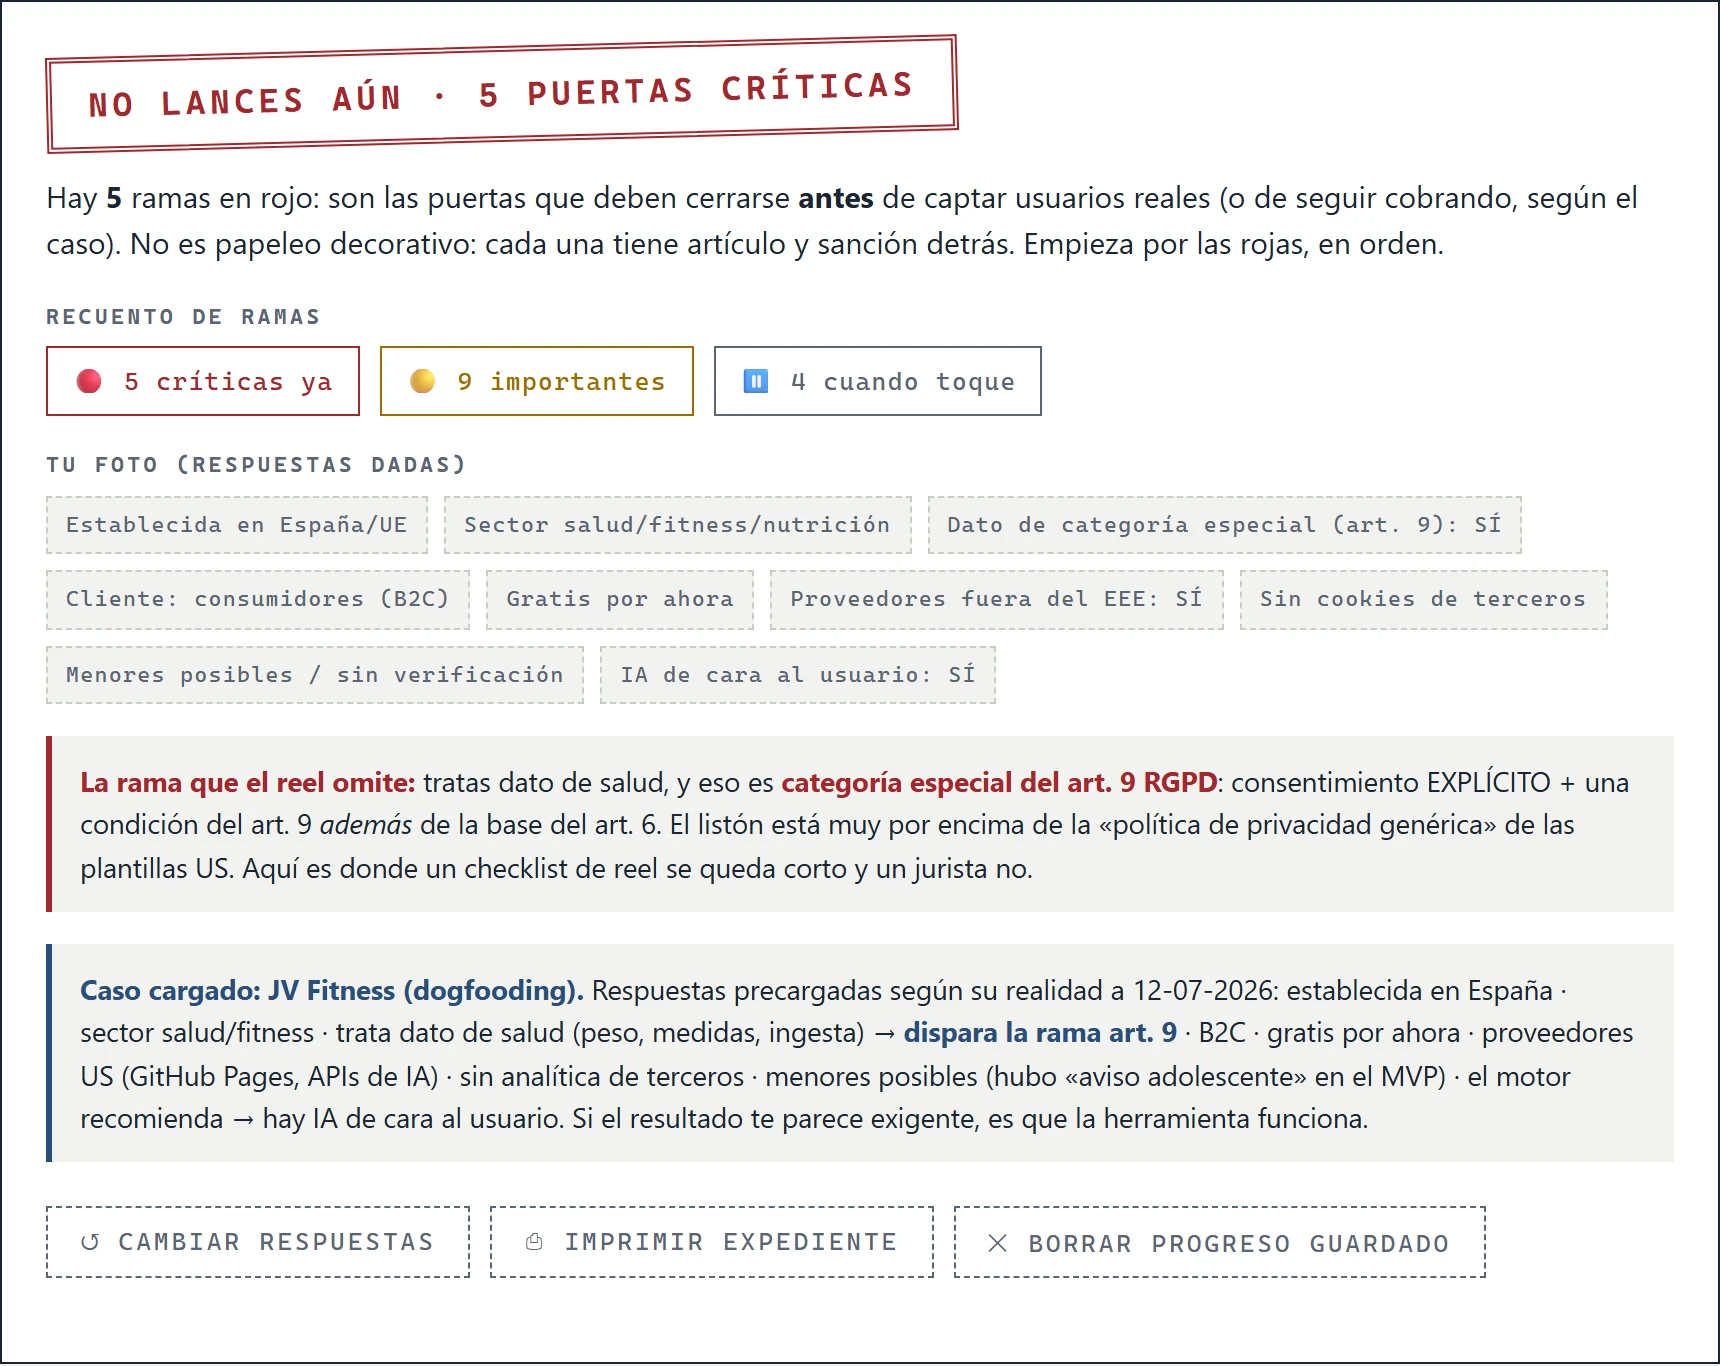
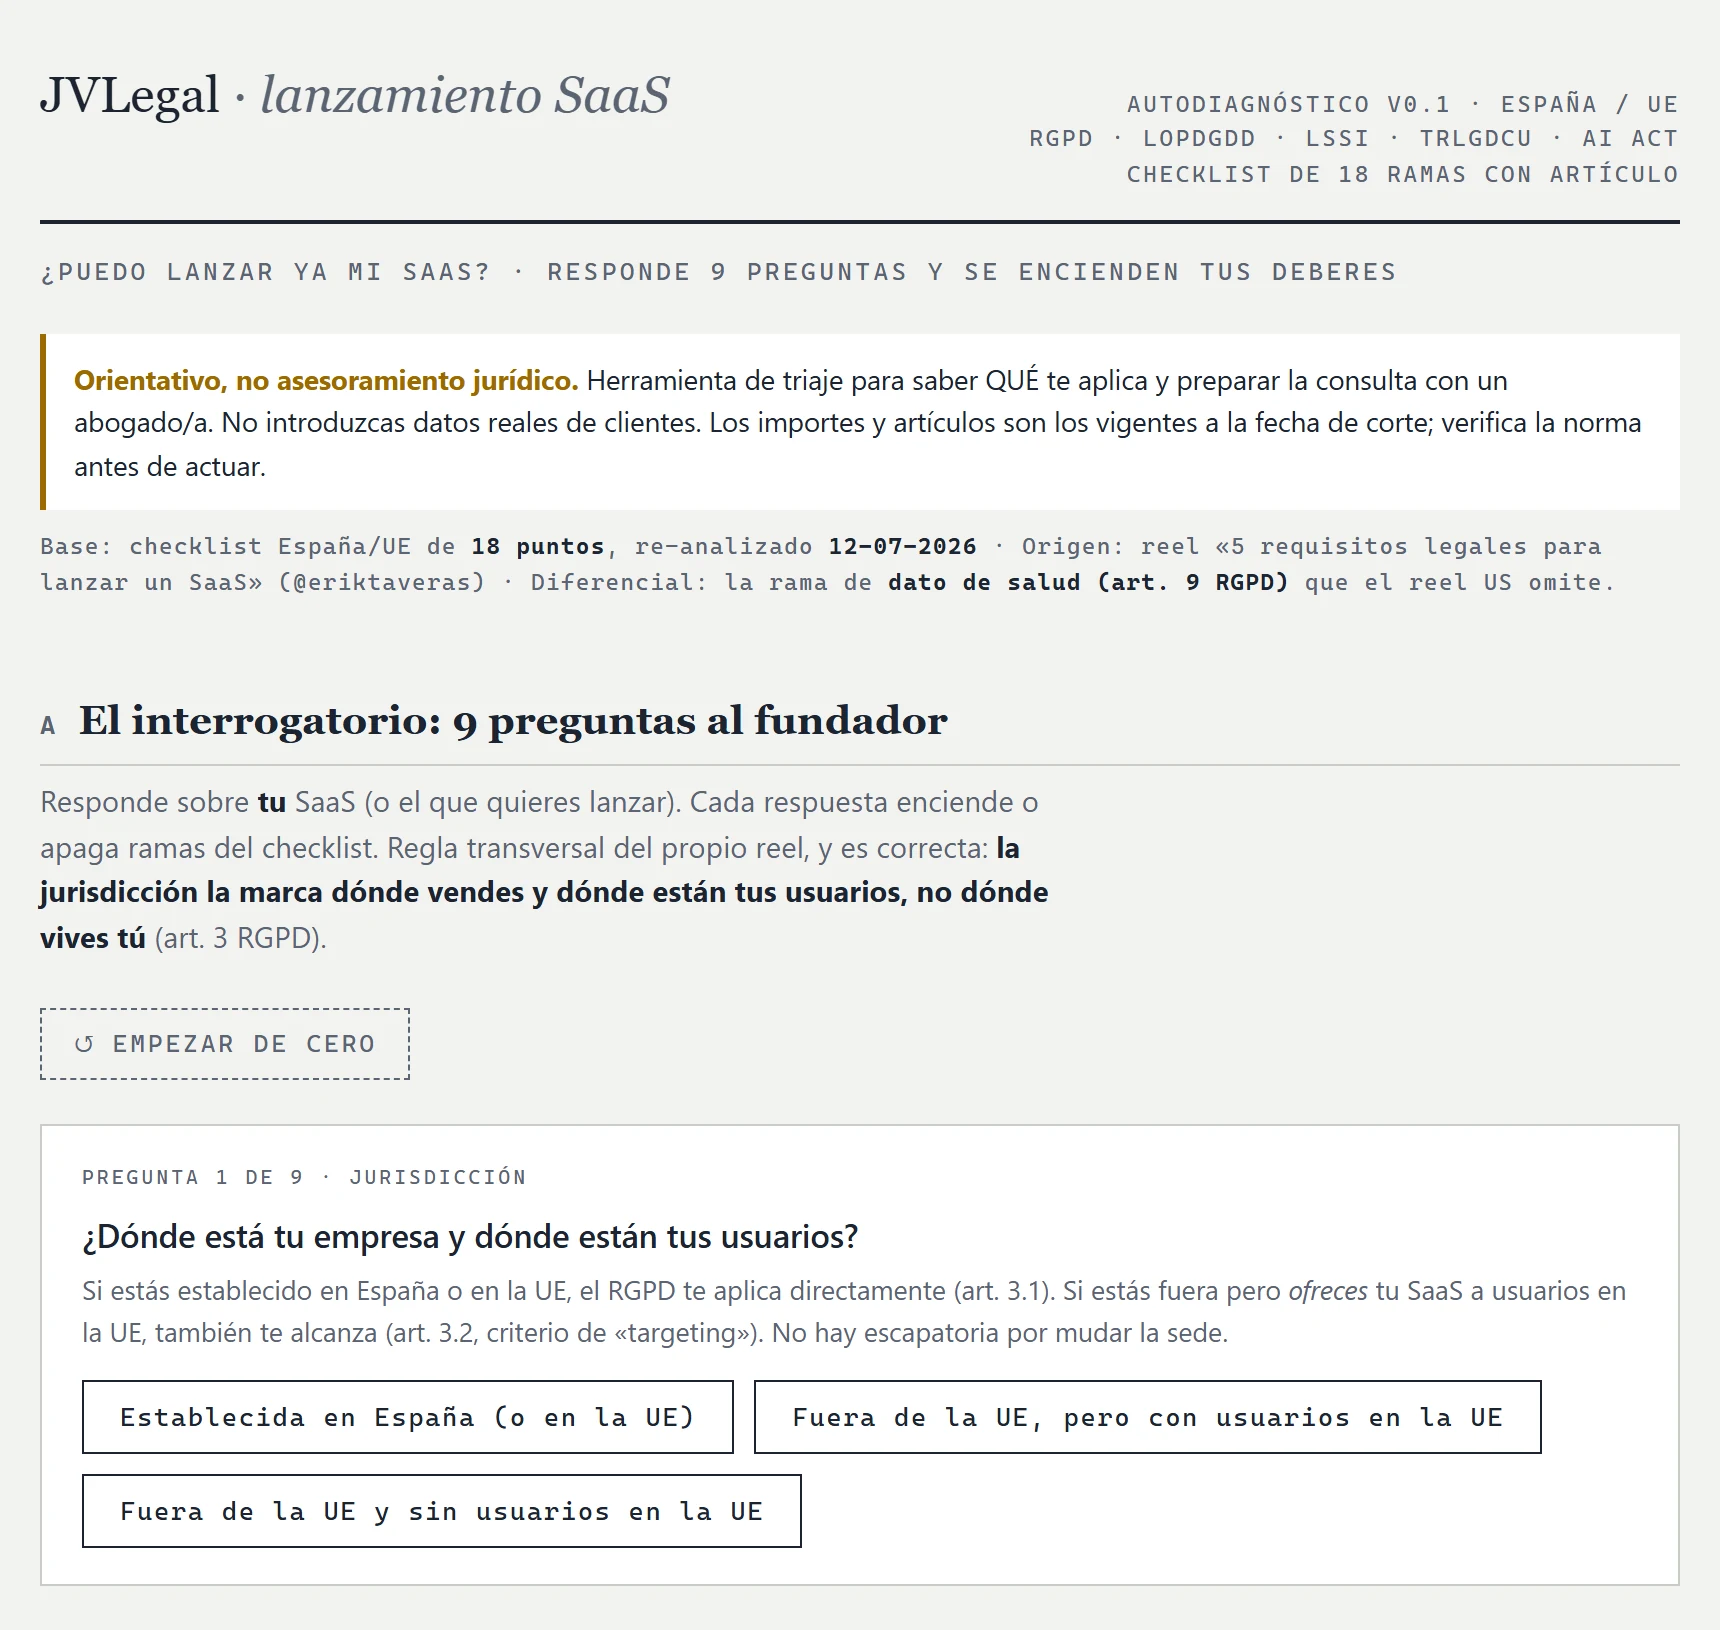
fix(privacy): drop the preloaded JV Fitness case from the self-diagnosis tool
The tool shipped with a "load JV Fitness (dogfooding)" button that filled the
nine answers with the author's real business situation (health data, US
providers, minors, pricing stage) plus a banner spelling it out. Anyone opening
the page could read it. The page now loads neutral: nine unanswered questions,
no preloaded state, no banner.

- remove the case button, the banner and the esCasoJVF flag (state, persistence
  and reset paths), plus the now-dead CSS
- re-shoot assets/shots/autodiagnostico.webp on the neutral state, same 1720px
  framing as before
- drop the client-side privacy boasts from the header and footer ("100% in your
  browser", "no server", "progress is only saved here"): they say nothing a
  static page does not already imply
- question flow and verdict logic untouched: 9 answers still light 18 branches

diff --git a/autodiagnostico.html b/autodiagnostico.html
@@ -42,11 +42,9 @@
   .opciones{display:flex;gap:10px;flex-wrap:wrap}
   .opt{font-family:var(--mono);font-size:.82rem;letter-spacing:.06em;padding:10px 18px;border:1.5px solid var(--tinta);background:transparent;color:var(--tinta);cursor:pointer;text-align:left}
   .opt:hover{background:var(--tinta);color:var(--papel)}
-  .opt:focus-visible,.btn:focus-visible,.btn-caso:focus-visible,.chk:focus-visible{outline:3px solid #8FA3BF;outline-offset:2px}
+  .opt:focus-visible,.btn:focus-visible,.chk:focus-visible{outline:3px solid #8FA3BF;outline-offset:2px}
   .btn{font-family:var(--mono);font-size:.78rem;letter-spacing:.12em;text-transform:uppercase;background:transparent;color:var(--gris);border:1px dashed var(--gris);padding:9px 16px;cursor:pointer;margin-top:6px}
   .btn:hover{border-color:var(--tinta);color:var(--tinta)}
-  .btn-caso{font-family:var(--mono);font-size:.78rem;letter-spacing:.08em;background:transparent;color:var(--azul);border:1.5px solid var(--azul);padding:10px 16px;cursor:pointer}
-  .btn-caso:hover{background:var(--azul);color:var(--papel)}
   .fila-acciones{display:flex;gap:10px;flex-wrap:wrap;margin:4px 0 22px}
 
   /* Veredicto (sello de expediente) */
@@ -60,8 +58,6 @@
   .cont{font-family:var(--mono);font-size:.78rem;letter-spacing:.06em;padding:7px 12px;border:1px solid currentColor}
   .recap{display:flex;gap:8px;flex-wrap:wrap;margin-top:6px}
   .chip{font-family:var(--mono);font-size:.7rem;letter-spacing:.05em;color:var(--gris);border:1px dashed var(--linea);background:var(--papel);padding:5px 9px}
-  .banner-caso{margin-top:16px;padding:12px 14px;border-left:3px solid var(--azul);background:var(--papel);font-size:.86rem}
-  .banner-caso b{color:var(--azul)}
   .dif{margin-top:16px;padding:12px 14px;border-left:3px solid var(--rojo);background:var(--papel);font-size:.86rem}
   .dif b{color:var(--rojo)}
 
@@ -103,7 +99,7 @@
 
   @media print{
     body{background:#fff;padding:0}
-    .opciones,.btn,.btn-caso,.fila-acciones,.no-print{display:none!important}
+    .opciones,.btn,.fila-acciones,.no-print{display:none!important}
     .paso{display:none!important}
     #veredicto{display:block!important}
   }
@@ -115,17 +111,16 @@
     <div class="marca">JVLegal <em>· lanzamiento SaaS</em></div>
     <div class="exp">Autodiagnóstico v0.1 · España / UE<br>RGPD · LOPDGDD · LSSI · TRLGDCU · AI Act<br>Checklist de 18 ramas con artículo</div>
   </header>
-  <p class="sub">¿Puedo lanzar ya mi SaaS? · Responde 9 preguntas y se encienden tus deberes · 100% en tu navegador</p>
+  <p class="sub">¿Puedo lanzar ya mi SaaS? · Responde 9 preguntas y se encienden tus deberes</p>
 
   <div class="aviso"><b>Orientativo, no asesoramiento jurídico.</b> Herramienta de triaje para saber QUÉ te aplica y preparar la consulta con un abogado/a. No introduzcas datos reales de clientes. Los importes y artículos son los vigentes a la fecha de corte; verifica la norma antes de actuar.</div>
-  <p class="corte">Motor: checklist España/UE de <b>18 puntos</b>, re-analizado <b>12-07-2026</b> · Origen: reel «5 requisitos legales para lanzar un SaaS» (@eriktaveras) · Diferencial: la rama de <b>dato de salud (art. 9 RGPD)</b> que el reel US omite.</p>
+  <p class="corte">Base: checklist España/UE de <b>18 puntos</b>, re-analizado <b>12-07-2026</b> · Origen: reel «5 requisitos legales para lanzar un SaaS» (@eriktaveras) · Diferencial: la rama de <b>dato de salud (art. 9 RGPD)</b> que el reel US omite.</p>
 
   <!-- ================= BLOQUE A · ÁRBOL DE DECISIÓN ================= -->
   <h2><span class="n">A</span>El interrogatorio: 9 preguntas al fundador</h2>
   <p class="lede">Responde sobre <b>tu</b> SaaS (o el que quieres lanzar). Cada respuesta enciende o apaga ramas del checklist. Regla transversal del propio reel, y es correcta: <b>la jurisdicción la marca dónde vendes y dónde están tus usuarios, no dónde vives tú</b> (art. 3 RGPD).</p>
 
   <div class="fila-acciones no-print">
-    <button class="btn-caso" onclick="casoJVF()">⚡ Cargar caso JV Fitness (dogfooding)</button>
     <button class="btn" onclick="reiniciar()">↺ Empezar de cero</button>
   </div>
 
@@ -256,7 +251,6 @@
       <h4>Tu foto (respuestas dadas)</h4>
       <div class="recap" id="recap"></div>
       <div class="dif" id="dif-salud" style="display:none"><b>La rama que el reel omite:</b> tratas dato de salud, y eso es <b>categoría especial del art. 9 RGPD</b>: consentimiento EXPLÍCITO + una condición del art. 9 <em>además</em> de la base del art. 6. El listón está muy por encima de la «política de privacidad genérica» de las plantillas US. Aquí es donde un checklist de reel se queda corto y un jurista no.</div>
-      <div class="banner-caso" id="banner-jvf" style="display:none"><b>Caso cargado: JV Fitness (dogfooding).</b> Respuestas precargadas según su realidad a 12-07-2026: establecida en España · sector salud/fitness · trata dato de salud (peso, medidas, ingesta) → <b>dispara la rama art. 9</b> · B2C · gratis por ahora · proveedores US (GitHub Pages, APIs de IA) · sin analítica de terceros · menores posibles (hubo «aviso adolescente» en el MVP) · el motor recomienda → hay IA de cara al usuario. Si el resultado te parece exigente, es que la herramienta funciona.</div>
       <div class="fila-acciones no-print" style="margin-top:16px">
         <button class="btn" onclick="reiniciar()">↺ Cambiar respuestas</button>
         <button class="btn" onclick="window.print()">⎙ Imprimir expediente</button>
@@ -265,7 +259,7 @@
     </div>
 
     <h2><span class="n">B.2</span>Las 18 ramas, encendidas según tus respuestas</h2>
-    <p class="lede">Cada rama trae su artículo, por qué se te enciende, qué hacer y <b>quién lo hace</b>. Marca «cerrada» cuando esté hecha de verdad (hecho ≠ redactado: hecho es publicado/firmado/decidido). El progreso se guarda solo en este navegador.</p>
+    <p class="lede">Cada rama trae su artículo, por qué se te enciende, qué hacer y <b>quién lo hace</b>. Marca «cerrada» cuando esté hecha de verdad (hecho ≠ redactado: hecho es publicado/firmado/decidido).</p>
     <div class="leyenda"><b>Marcas de reparto:</b> 🧑⚖ criterio o acción jurídica <b>tuya</b> · 🖐 trámite o panel que solo puedes tocar tú · 🤖 borrador que redacta/genera Claude (y luego validas tú). <b>Prioridad:</b> <span class="t-rojo tag">crítico ya</span> antes de lanzar/captar · <span class="t-ambar tag">importante</span> en el primer tramo · <span class="t-pausa tag">cuando toque</span> se enciende sola al crecer.</div>
     <div id="ramas"></div>
   </div>
@@ -304,8 +298,7 @@
 
   <footer>
     <b>SALIDA ORIENTATIVA · NO ES ASESORAMIENTO JURÍDICO NI DICTAMEN.</b> Herramienta de triaje para preparar la consulta con abogado/a.<br>
-    CARÁTULA DE EXPEDIENTE, 100% CLIENTE · MOTOR: CHECKLIST ES/UE DE 18 PUNTOS (12-07-2026).<br>
-    FUNCIONA 100% EN EL NAVEGADOR · SIN SERVIDOR · SIN CLAVES · EL PROGRESO SE GUARDA SOLO EN ESTE NAVEGADOR (localStorage) · NADA SALE DE TU EQUIPO.
+    CARÁTULA DE EXPEDIENTE · CHECKLIST ES/UE DE 18 PUNTOS (12-07-2026).
   </footer>
 </div>
 
@@ -318,7 +311,6 @@ var CLAVE_LS = 'jvlegal_autodiag_saas_v01';
 var ORDEN = ['alcance','sector','salud','clientes','cobro','provUS','cookies','menores','ia'];
 var respuestas = {};
 var checks = {};
-var esCasoJVF = false;
 
 // ---------- Etiquetas legibles para el recap ----------
 var ETIQ = {
@@ -427,7 +419,7 @@ var RAMAS = [
     quien:'🧑⚖ la evaluación es criterio jurídico tuyo (🤖 prepara la plantilla)',
     ev:function(a){
       if(a.salud==='si'){
-        if(a.ia==='si') return {e:'ambar', p:'Dato de salud + un motor que evalúa y recomienda sobre las personas: dos marcadores de la lista AEPD. A poca escala que cojas, la EIPD deja de ser opcional.'};
+        if(a.ia==='si') return {e:'ambar', p:'Dato de salud + un sistema que evalúa y recomienda sobre las personas: dos marcadores de la lista AEPD. A poca escala que cojas, la EIPD deja de ser opcional.'};
         return {e:'ambar', p:'Con dato de salud a escala, la EIPD es lo esperable. Hazla antes de crecer: retro-encajarla con miles de usuarios es mucho peor.'};
       }
       if(a.salud==='nose') return {e:'ambar', p:'Resuelve primero si tratas categoría especial (rama #2); de eso depende que la EIPD sea probable u opcional.'};
@@ -462,10 +454,10 @@ var RAMAS = [
     }},
   { n:14, t:'Pagos — PCI-DSS por descarga',
     base:'PCI-DSS (estándar de seguridad de las marcas de tarjeta, exigido por contrato con la pasarela).',
-    hacer:'La tarjeta NUNCA pasa por tu servidor ni se guarda en tu base de datos: checkout de Stripe/PayPal (o equivalente) para que el número viaje directo a la pasarela. Así descargas casi todo el PCI-DSS en ellos. En esto el reel acierta 1:1.',
+    hacer:'La tarjeta NUNCA pasa por tu servidor ni queda almacenada en tu base de datos: checkout de Stripe/PayPal (o equivalente) para que el número viaje directo a la pasarela. Así descargas casi todo el PCI-DSS en ellos. En esto el reel acierta 1:1.',
     quien:'🤖 integración del checkout (sin tocar PAN/CVV jamás)',
     ev:function(a){
-      if(a.cobro==='ya') return {e:'ambar', p:'Ya cobras: verifica que el dato de tarjeta ni pasa ni se guarda en tu infraestructura. Si hoy pasa por tu servidor, esto salta a crítico.'};
+      if(a.cobro==='ya') return {e:'ambar', p:'Ya cobras: verifica que el dato de tarjeta ni pasa ni queda almacenado en tu infraestructura. Si hoy pasa por tu servidor, esto salta a crítico.'};
       if(a.cobro==='pronto') return {e:'ambar', p:'Elige pasarela ANTES del primer cobro y que el diseño nazca sin tocar la tarjeta. Retro-encajar PCI después es carísimo.'};
       return {e:'pausa', p:'Sin cobros no hay tarjeta que proteger. La rama se enciende al elegir pasarela.'};
     }},
@@ -497,11 +489,11 @@ var RAMAS = [
     }},
   { n:18, t:'IA — transparencia del AI Act',
     base:'Reglamento (UE) 2024/1689 (AI Act), art. 50: deber de transparencia, aplicable desde el 2-ago-2026.',
-    hacer:'Si el usuario interactúa con una IA o recibe sus recomendaciones, debe saberlo: decláralo en la interfaz («este plan lo genera un motor de IA») y en los términos. Si tu IA recomienda sobre salud, vigila además dos fronteras: las categorías de riesgo del AI Act y la de «producto sanitario» (MDR) — que tu app no cruce a diagnosticar o tratar.',
+    hacer:'Si el usuario interactúa con una IA o recibe sus recomendaciones, debe saberlo: decláralo en la interfaz («este plan lo genera una IA») y en los términos. Si tu IA recomienda sobre salud, vigila además dos fronteras: las categorías de riesgo del AI Act y la de «producto sanitario» (MDR) — que tu app no cruce a diagnosticar o tratar.',
     quien:'🧑⚖ clasificas el riesgo · 🤖 textos de transparencia en la UI',
     ev:function(a){
       if(a.ia==='si'){
-        if(a.sector==='salud') return {e:'ambar', p:'Tu motor recomienda sobre salud: declara la IA (art. 50, ya con fecha: 2-ago-2026) y mantén el producto en «bienestar/hábitos», lejos de diagnosticar o tratar — esa frontera (MDR) cambia el juego entero.'};
+        if(a.sector==='salud') return {e:'ambar', p:'Tu producto recomienda sobre salud: declara la IA (art. 50, ya con fecha: 2-ago-2026) y mantén el producto en «bienestar/hábitos», lejos de diagnosticar o tratar — esa frontera (MDR) cambia el juego entero.'};
         return {e:'ambar', p:'Hay IA de cara al usuario: el deber de transparencia del art. 50 tiene fecha (2-ago-2026). Declararlo cuesta una línea; no declararlo es sanción de transparencia.'};
       }
       return {e:'pausa', p:'Sin IA de cara al usuario, el art. 50 no se activa. Se enciende el día que metas chat, recomendaciones o contenido generado.'};
@@ -520,7 +512,6 @@ function mostrarPaso(id){
 }
 function resp(clave, val){
   respuestas[clave]=val;
-  esCasoJVF=false;
   guardar();
   if(clave==='alcance' && val==='fuera'){ mostrarPaso('v-fuera'); return; }
   var i=ORDEN.indexOf(clave);
@@ -529,20 +520,11 @@ function resp(clave, val){
 }
 function atras(idPaso){ mostrarPaso(idPaso); }
 function reiniciar(){
-  respuestas={}; esCasoJVF=false; guardar();
+  respuestas={}; guardar();
   mostrarPaso('q-alcance');
 }
 function completo(){
   return ORDEN.every(function(k){ return respuestas[k]; });
-}
-
-// ---------- Caso JV Fitness (dogfooding) ----------
-function casoJVF(){
-  respuestas={ alcance:'es', sector:'salud', salud:'si', clientes:'b2c', cobro:'no',
-               provUS:'si', cookies:'no', menores:'si', ia:'si' };
-  esCasoJVF=true;
-  guardar();
-  veredicto();
 }
 
 // ---------- Veredicto ----------
@@ -589,9 +571,8 @@ function veredicto(){
     return v ? '<span class="chip">'+ETIQ[k][v]+'</span>' : '';
   }).join('');
 
-  // 5. Diferencial art. 9 y banner JVF
+  // 5. Diferencial art. 9
   document.getElementById('dif-salud').style.display = (respuestas.salud==='si') ? 'block' : 'none';
-  document.getElementById('banner-jvf').style.display = esCasoJVF ? 'block' : 'none';
 
   // 6. Pintar las 18 ramas (rojas primero, luego ámbar, pausa, na — manteniendo numeración visible)
   var ordenEstado={rojo:0, ambar:1, pausa:2, na:3};
@@ -632,7 +613,7 @@ function veredicto(){
 // ---------- Persistencia (solo en ESTE navegador) ----------
 function guardar(){
   try{
-    localStorage.setItem(CLAVE_LS, JSON.stringify({a:respuestas, c:checks, jvf:esCasoJVF}));
+    localStorage.setItem(CLAVE_LS, JSON.stringify({a:respuestas, c:checks}));
   }catch(e){ /* modo privado o storage lleno: la app sigue funcionando sin guardar */ }
 }
 function cargar(){
@@ -641,13 +622,12 @@ function cargar(){
     if(d && typeof d==='object'){
       respuestas = d.a || {};
       checks = d.c || {};
-      esCasoJVF = !!d.jvf;
     }
   }catch(e){ respuestas={}; checks={}; }
 }
 function borrarTodo(){
   try{ localStorage.removeItem(CLAVE_LS); }catch(e){}
-  respuestas={}; checks={}; esCasoJVF=false;
+  respuestas={}; checks={};
   mostrarPaso('q-alcance');
 }
 
